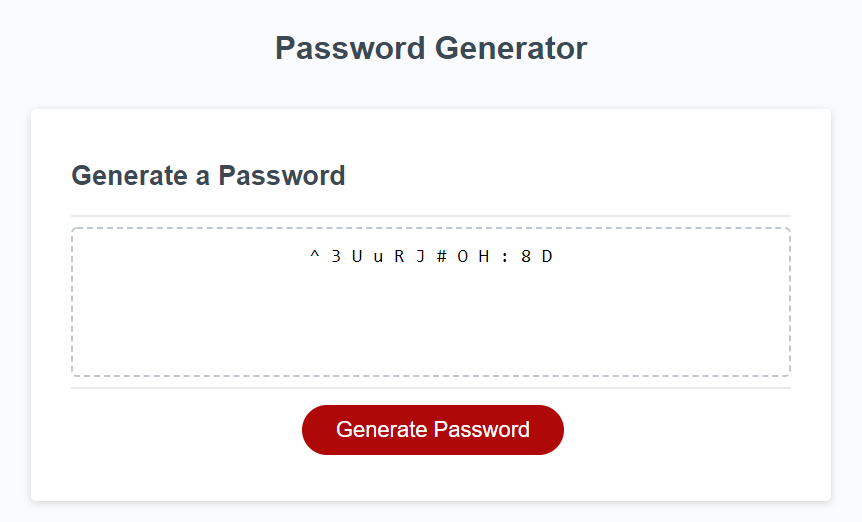
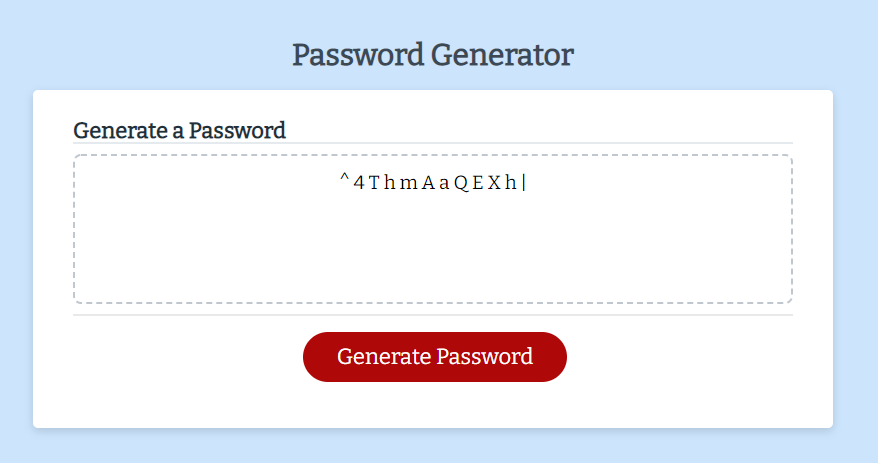
updated readme image, updated html, css

diff --git a/Assets/Script/style.css b/Assets/Script/style.css
@@ -34,11 +34,15 @@ header {
   font-size: 30px;
 }
 
+#GenPwd {
+  font-size: 22px;
+}
+
 .card {
   background-color: hsl(0, 0%, 100%);
   border-radius: 5px;
   border-width: 1px;
-  box-shadow: rgba(0, 0, 0, 0.15) 0px 2px 8px 0px;
+  box-shadow: rgba(5, 5, 5, 0.15) 0px 3px 9px 0px;
   color: hsl(205, 26%, 18%);
   font-size: 20px;
   margin: 0 auto;
@@ -50,7 +54,7 @@ header {
   content: " ";
   display: block;
   width: 100%;
-  background: #e7e9eb;
+  background: #e5eaee;
   height: 2px;
 }
 

diff --git a/index.html b/index.html
@@ -19,7 +19,7 @@
     </header>
     <div class="card">
       <div class="card-header">
-        <h2>Generate a Password</h2>
+        <h2 id="GenPwd">Generate a Password</h2>
       </div>
       <div class="card-body">
         <textarea readonly id="password" placeholder="Your Secure Password" aria-label="Generated Password"></textarea>
